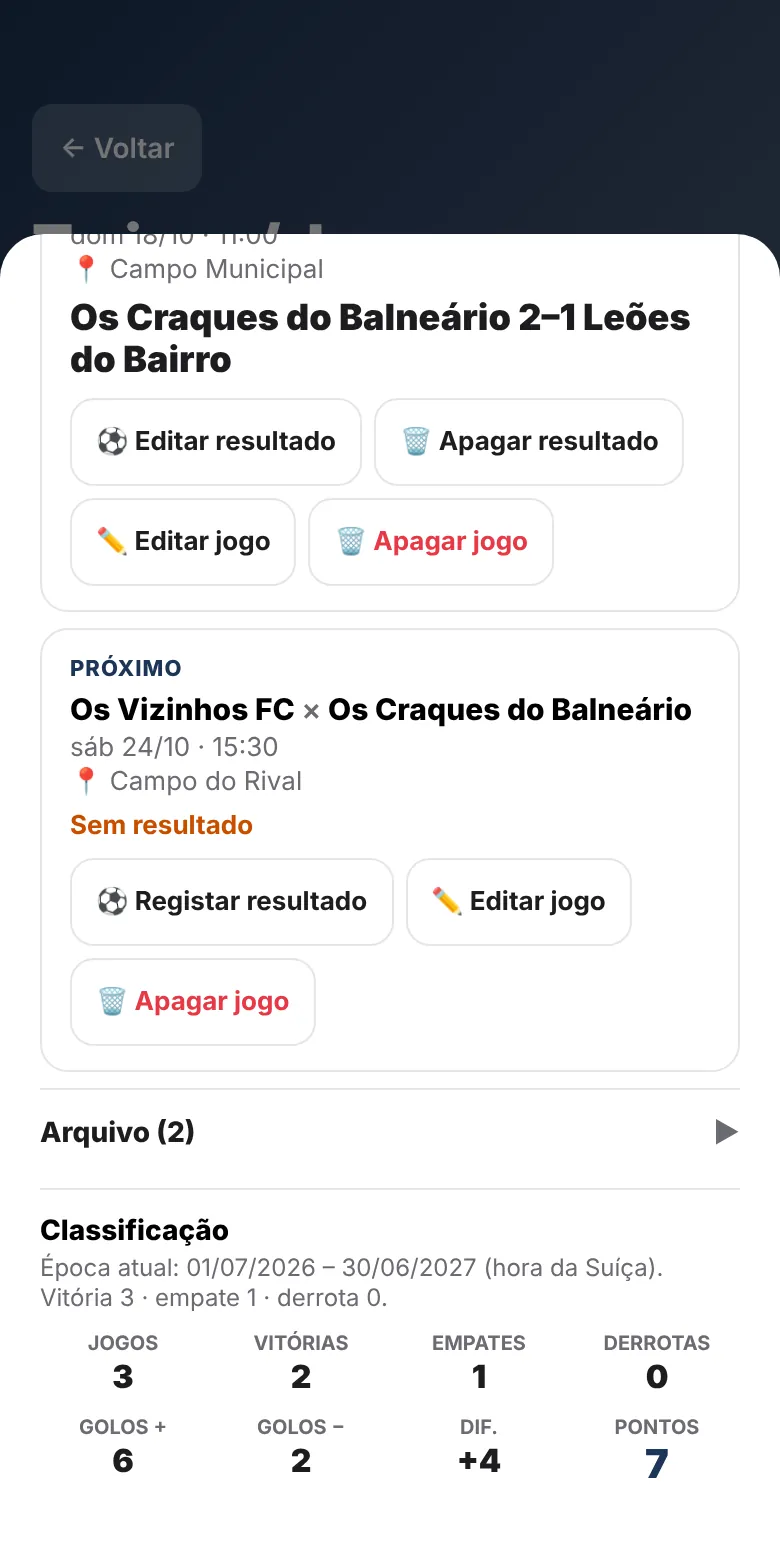
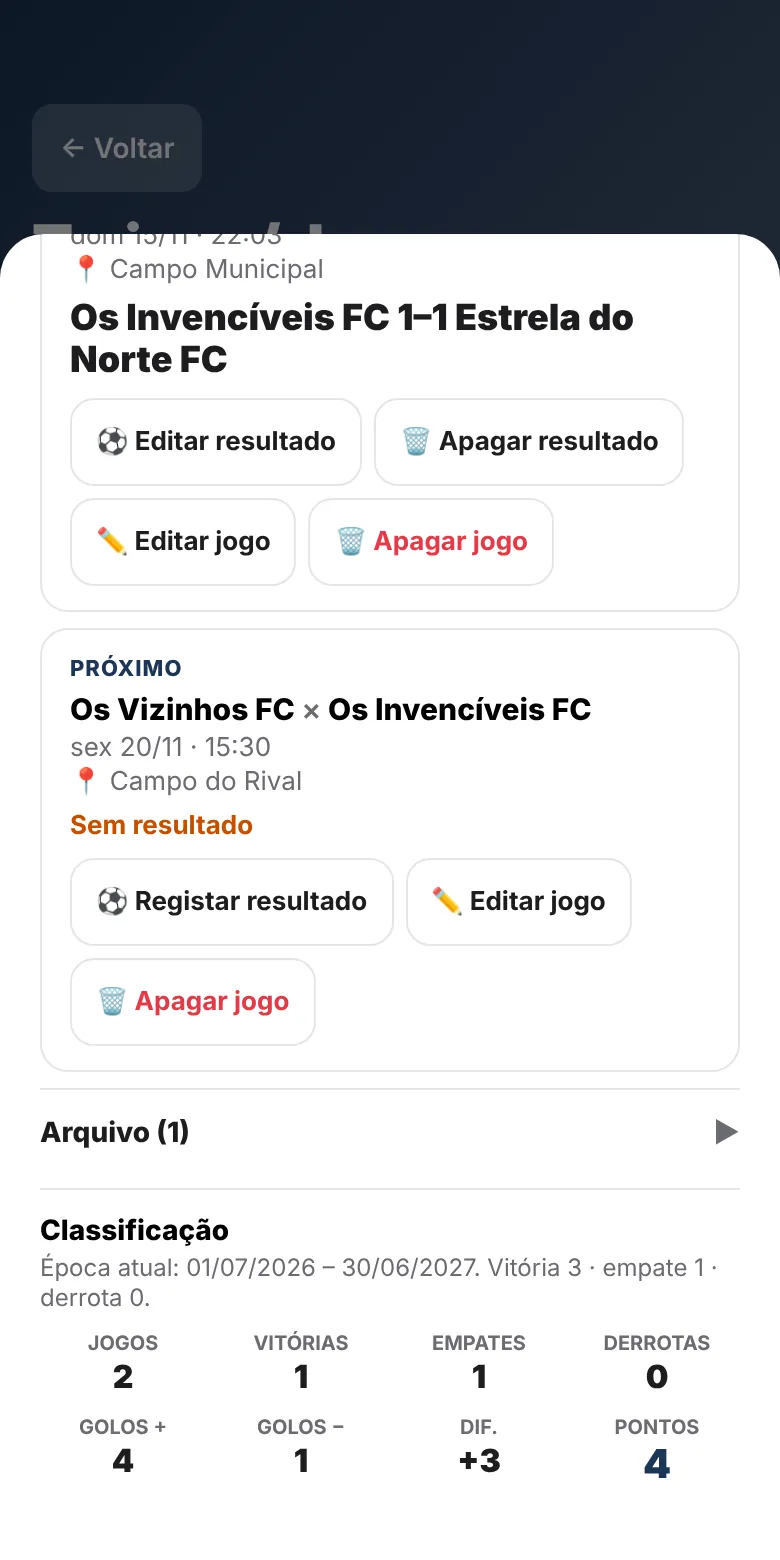
Início "Próximos" com etiqueta Treino/Jogo, textos "treino ou jogo" e época sem "(hora da Suíça)" (build 350) (#117)
* Início: "Próximos" com etiqueta Treino ou Jogo em cada cartão (build 350)

- a secção "Próximos treinos" passa a "Próximos" (mostra também jogos)
- cada cartão tem no canto direito a etiqueta "Treino" (treino único e recorrente) ou "Jogo", com o mesmo componente (TipoTag) da página Treino/Jogo
- TipoTag ganha o tipo "treino" (sem o 🔄); os outros tipos ficam iguais
- bateria passa a 101 testes (dom-inicio-proximos)

Claude-Session: https://claude.ai/code/session_01XW9KKCBSNgpnK8uyFYcZ7o

* Textos "treino ou jogo" e época sem "(hora da Suíça)" (build 350)

- Início: contadores/textos que diziam só "treino" mas também valem para jogos passam a "treino ou jogo" / "treinos e jogos" (mensagem ao entrar na equipa, definições, previsão do tempo, Gerir, ecrã de entrada, contador do apagar equipa); aria-label do ecrã "Vais ao …?" segue o título
- Classificação: "Época atual: 01/07/2026 – 30/06/2027." (sem "(hora da Suíça)"); mesma frase na /sobre/, com a imagem jogos.webp refeita (equipa de exemplo Os Invencíveis FC)
- nenhum cálculo de data, época ou arquivo muda
- bateria passa a 103 testes (unit-textos-treino-jogo, dom-epoca-texto)

Claude-Session: https://claude.ai/code/session_01XW9KKCBSNgpnK8uyFYcZ7o

---------

diff --git a/src/multeam.jsx b/src/multeam.jsx
@@ -2127,7 +2127,7 @@ const JoinTeamModal = ({ teams, user, onFindByCode, onJoin, onClose, initialCode
         <div style={{ textAlign:"center", padding:"20px 0 10px" }}>
           <p style={{ fontSize:52 }}>🎉</p>
           <p style={{ fontWeight:800, fontSize:20, margin:"8px 0 6px" }}>Bem-vindo ao {found.name}!</p>
-          <p style={{ color:T.sub, fontSize:14, margin:"0 0 16px" }}>Já podes ver os treinos, multas e eventos da equipa.</p>
+          <p style={{ color:T.sub, fontSize:14, margin:"0 0 16px" }}>Já podes ver os treinos, jogos, multas e eventos da equipa.</p>
           {!window.matchMedia('(display-mode: standalone)').matches && (
             <div style={{ background:`${T.green}12`, borderRadius:12, padding:"12px 14px", marginBottom:16, textAlign:"left" }}>
               <p style={{ margin:0, fontSize:13, color:T.green, fontWeight:700 }}>📲 Instala a app!</p>
@@ -2359,7 +2359,7 @@ const RsvpGate = ({ ev, team, onAnswer, onLater }) => {
     <button data-rsvp={data} disabled={busy} onClick={onClick} style={{ width:"100%", minHeight:56, padding:"14px", borderRadius:16, border:`2px solid ${color}`, background:bg, color:bg==="transparent"?color:"#fff", fontSize:17, fontWeight:800, cursor:busy?"default":"pointer", fontFamily:"inherit", marginTop:12 }}>{label}</button>
   );
   return (
-    <div role="dialog" aria-modal="true" aria-label="Vais ao treino?" data-rsvp-gate style={{ position:"fixed", inset:0, zIndex:3000, background:T.bg, overflowY:"auto", display:"flex", flexDirection:"column", alignItems:"center", justifyContent:"center", padding:"24px 20px", boxSizing:"border-box", fontFamily:"-apple-system, BlinkMacSystemFont, 'Segoe UI', sans-serif" }}>
+    <div role="dialog" aria-modal="true" aria-label={`Vais ao ${ev.t.type === "jogo" ? "jogo" : "treino"}?`} data-rsvp-gate style={{ position:"fixed", inset:0, zIndex:3000, background:T.bg, overflowY:"auto", display:"flex", flexDirection:"column", alignItems:"center", justifyContent:"center", padding:"24px 20px", boxSizing:"border-box", fontFamily:"-apple-system, BlinkMacSystemFont, 'Segoe UI', sans-serif" }}>
       <div style={{ width:"100%", maxWidth:420 }}>
         <p style={{ margin:"0 0 4px", fontSize:12, fontWeight:700, color:T.sub, textTransform:"uppercase", letterSpacing:0.5 }}>{team.name}</p>
         <h1 style={{ margin:"0 0 14px", fontSize:28, fontWeight:900, lineHeight:1.15 }}>Vais ao {ev.t.type === "jogo" ? "jogo" : "treino"}?</h1>
@@ -2613,29 +2613,31 @@ const HomeTab = ({ appStatus, noticeUserId, team, fines, members, expenses, trai
       })()}
       {(upcoming.length > 0 || recurring.length > 0) && (
         <>
-          <Sec label="Próximos treinos" />
+          <Sec label="Próximos" />
           {recurring.map(t => (
-            <div key={t.id} style={{ background:T.card, borderRadius:14, padding:"13px 14px", marginBottom:8, display:"flex", alignItems:"center", gap:12 }}>
+            <div key={t.id} data-proximo={t.id} data-tipo-evento="recorrente" style={{ background:T.card, borderRadius:14, padding:"13px 14px", marginBottom:8, display:"flex", alignItems:"center", gap:12 }}>
               <div style={{ width:44, height:44, borderRadius:10, background:`${team.color}18`, display:"flex", alignItems:"center", justifyContent:"center", flexShrink:0, fontSize:22 }}>🔄</div>
-              <div style={{ flex:1 }}>
+              <div style={{ flex:1, minWidth:0 }}>
                 <p style={{ margin:0, fontWeight:700, fontSize:15 }}>{(t.days||[]).map(d=>DAYS_PT[d]).join(", ")} · {t.time}</p>
                 {eventDateShort(parseEventDay(nextOccurrence(t.days, t.time))) && <p data-event-date style={{ margin:0, fontSize:13, fontWeight:600, color:T.sub }}>Próximo: {eventDateShort(parseEventDay(nextOccurrence(t.days, t.time)))}</p>}
                 <p style={{ margin:0, fontSize:13, color:T.sub }}>📍 {t.location}{fcText(fc[t.id])}</p>
                 <TacticLine t={t} team={team} />
               </div>
+              <TipoTag tipo="treino" />
             </div>
           ))}
           {upcoming.map(t => (
-            <div key={t.id} style={{ background:T.card, borderRadius:14, padding:"13px 14px", marginBottom:8, display:"flex", alignItems:"center", gap:12 }}>
+            <div key={t.id} data-proximo={t.id} data-tipo-evento={t.type} style={{ background:T.card, borderRadius:14, padding:"13px 14px", marginBottom:8, display:"flex", alignItems:"center", gap:12 }}>
               <div style={{ width:44, height:44, borderRadius:10, background:`${team.color}18`, display:"flex", flexDirection:"column", alignItems:"center", justifyContent:"center", flexShrink:0 }}>
                 <p style={{ margin:0, fontSize:18, fontWeight:900, color:team.color, lineHeight:1 }}>{new Date(t.date+"T00:00:00").getDate()}</p>
                 <p style={{ margin:0, fontSize:10, color:team.color, fontWeight:700 }}>{new Date(t.date+"T00:00:00").toLocaleDateString("pt-PT",{month:"short"}).toUpperCase()}</p>
               </div>
-              <div style={{ flex:1 }}>
-                <p style={{ margin:0, fontWeight:700, fontSize:15 }}>{t.type==="jogo"?`⚽ vs ${t.opponent}`:"🕐"} {t.time}<span data-event-date style={{ fontWeight:600, color:T.sub }}> · {eventDateShort(parseEventDay(t.date))}</span></p>
+              <div style={{ flex:1, minWidth:0 }}>
+                <p style={{ margin:0, fontWeight:700, fontSize:15, overflowWrap:"anywhere" }}>{t.type==="jogo"?`⚽ vs ${t.opponent}`:"🕐"} {t.time}<span data-event-date style={{ fontWeight:600, color:T.sub }}> · {eventDateShort(parseEventDay(t.date))}</span></p>
                 <p style={{ margin:0, fontSize:13, color:T.sub }}>📍 {t.location}{fcText(fc[t.id])}</p>
                 <TacticLine t={t} team={team} />
               </div>
+              <TipoTag tipo={t.type==="jogo"?"jogo":"treino"} />
             </div>
           ))}
         </>
@@ -2833,7 +2835,7 @@ const PresBar = ({ t, presences, myMember, team, members, onSetPresence, isAdmin
 const TipoTag = ({ tipo }) => {
   const jogo = tipo === "jogo";
   return <span data-tipo-tag={jogo ? "jogo" : "treino"} style={{ flexShrink:0, display:"inline-block", whiteSpace:"nowrap", padding:"3px 8px", borderRadius:6, fontSize:11, fontWeight:800, lineHeight:"14px",
-    background:jogo ? "#FEF3C7" : "#DBEAFE", color:jogo ? "#92400E" : "#1E40AF", border:`1px solid ${jogo ? "#F59E0B66" : "#3B82F666"}` }}>{jogo ? "Jogo" : "🔄 Treino"}</span>;
+    background:jogo ? "#FEF3C7" : "#DBEAFE", color:jogo ? "#92400E" : "#1E40AF", border:`1px solid ${jogo ? "#F59E0B66" : "#3B82F666"}` }}>{jogo ? "Jogo" : tipo === "treino" ? "Treino" : "🔄 Treino"}</span>;
 };
 const RESULTADO_PALAVRA = { V:"Vitória", E:"Empate", D:"Derrota" };
 // Resultado no cartão do jogo: placar grande sempre à vista; quem gere regista, edita e apaga aqui mesmo (sem abrir o painel "Jogos").
@@ -3046,7 +3048,7 @@ const JogosPanel = ({ team, trainings, onClose, onEditJogo, onDeleteJogo, onResu
         </>)}
         <div data-jogos-classificacao style={{ borderTop:`1px solid ${T.border}`, marginTop:6, paddingTop:12 }}>
           <p style={{ margin:"0 0 2px", fontSize:14, fontWeight:800 }}>Classificação</p>
-          <p style={{ margin:"0 0 10px", fontSize:12, color:T.sub }}>Época atual: {epTxt} (hora da Suíça). Vitória 3 · empate 1 · derrota 0.</p>
+          <p style={{ margin:"0 0 10px", fontSize:12, color:T.sub }}>Época atual: {epTxt}. Vitória 3 · empate 1 · derrota 0.</p>
           {cl.j === 0
             ? <p data-jogos-sem-resultados style={{ margin:0, fontSize:14, color:T.sub }}>Ainda sem resultados nesta época.</p>
             : <div style={{ display:"grid", gridTemplateColumns:"repeat(4, 1fr)", gap:"10px 6px" }}>
@@ -5024,7 +5026,7 @@ const TeamDataSection = ({ team, onSave }) => {
             <TacticBig tactic={team.tactic} />
           </div>
           <Val label="Nome" v={`${team.emoji||""} ${team.name||""}`.trim()} />
-          <Val label="Obrigar a responder ao treino" v={team.forceRsvp ? "Ligado" : "Desligado"} />
+          <Val label="Obrigar a responder ao treino ou jogo" v={team.forceRsvp ? "Ligado" : "Desligado"} />
           <div style={{ display:"flex", justifyContent:"space-between", alignItems:"center", padding:"6px 0" }}>
             <span style={{ fontSize:13, color:T.sub }}>Cor</span>
             <span style={{ width:20, height:20, borderRadius:10, background:team.color, display:"inline-block" }} />
@@ -5034,7 +5036,7 @@ const TeamDataSection = ({ team, onSave }) => {
           <Val label="Moeda" v={team.currency} />
           <Val label="País" v={team.country} />
           <Val label="Cidade" v={[team.postal, team.city].filter(Boolean).join(" ")} />
-          <p style={{ margin:"4px 0 0", fontSize:12, color:T.sub }}>Cidade e país: usados para a previsão do tempo nos treinos.</p>
+          <p style={{ margin:"4px 0 0", fontSize:12, color:T.sub }}>Cidade e país: usados para a previsão do tempo nos treinos e jogos.</p>
         </>
       ) : (
         <>
@@ -5065,7 +5067,7 @@ const TeamDataSection = ({ team, onSave }) => {
             {sportIssue && <p role="alert" data-sport-error style={{ margin:"-6px 0 10px", fontSize:13, fontWeight:700, color:"#B42318" }}>{sportIssue}</p>}
           </>}
           <TacticField key={sportSel} sport={sportJoin(sportSel, sportOther, team.sport || SPORT_OTHER)} value={f.tactic} onChange={v=>set("tactic",v)} emptyLabel="Por definir" color={f.color} />
-          <FL>Obrigar a responder ao treino</FL>
+          <FL>Obrigar a responder ao treino ou jogo</FL>
           <button role="switch" aria-checked={!!f.force_rsvp} data-rsvp-switch onClick={()=>set("force_rsvp", !f.force_rsvp)} style={{ display:"flex", alignItems:"center", justifyContent:"space-between", gap:12, width:"100%", minHeight:44, padding:"8px 14px", borderRadius:12, border:`2px solid ${f.force_rsvp ? f.color : T.border}`, background:f.force_rsvp ? `${f.color}15` : T.inputBg, color:T.text, fontSize:15, fontWeight:800, cursor:"pointer", fontFamily:"inherit", marginBottom:6 }}>
             <span>{f.force_rsvp ? "Ligado" : "Desligado"}</span>
             <span style={{ fontSize:12, color:T.sub, fontWeight:700 }}>{f.force_rsvp ? "Tocar para desligar" : "Tocar para ligar"}</span>
@@ -5098,7 +5100,7 @@ const TeamDataSection = ({ team, onSave }) => {
               <FI value={f.postal} onChange={e=>set("postal",e.target.value)} placeholder="2545" />
             </div>
           </div>
-          <p style={{ margin:"-8px 0 14px", fontSize:12, color:T.sub }}>Usado para a previsão do tempo nos treinos.</p>
+          <p style={{ margin:"-8px 0 14px", fontSize:12, color:T.sub }}>Usado para a previsão do tempo nos treinos e jogos.</p>
           {(!nameOk || !seasonOk) && <p style={{ margin:"0 0 10px", fontSize:13, fontWeight:600, color:T.brand }}>{!nameOk ? "O nome não pode ficar vazio." : "A época não pode ficar vazia."}</p>}
           {err && <p style={{ margin:"0 0 10px", fontSize:13, fontWeight:600, color:T.brand }}>{err}</p>}
           <div style={{ display:"flex", gap:10 }}>
@@ -5274,7 +5276,7 @@ const DeleteTeamModal = ({ team, token, onDelete, onClose }) => {
     <Sheet title={`Apagar ${team.name}?`} onClose={busy ? ()=>{} : onClose}>
       <div style={{ background:"#FFF5F5", border:"1px solid #FFD0D0", borderRadius:12, padding:"12px 14px", marginBottom:14 }}>
         <p style={{ margin:"0 0 4px", fontSize:13, color:T.sub }}>Perde-se tudo:</p>
-        <p style={{ margin:0, fontSize:15, fontWeight:700, color:T.brand }}>{q(0,"membro","membros")} · {q(1,"multa","multas")} · {q(2,"treino","treinos")} · {q(3,"cartão","cartões")} · {q(4,"despesa","despesas")} · {q(5,"lesão","lesões")} · {q(6,"ausência","ausências")}</p>
+        <p style={{ margin:0, fontSize:15, fontWeight:700, color:T.brand }}>{q(0,"membro","membros")} · {q(1,"multa","multas")} · {q(2,"treino ou jogo","treinos e jogos")} · {q(3,"cartão","cartões")} · {q(4,"despesa","despesas")} · {q(5,"lesão","lesões")} · {q(6,"ausência","ausências")}</p>
       </div>
       {countsFailed && <LoadWarn id="contagens" onRetry={()=>setTick(t=>t+1)}>Não foi possível contar tudo o que se perde (—).</LoadWarn>}
       <p style={{ margin:"0 0 12px", fontSize:14 }}>Isto não tem volta. Escreve o nome da equipa para confirmar.</p>
@@ -5490,7 +5492,7 @@ const ManageTeamScreen = ({ team, members, fineTypes, token, myUserId, onBack, o
           <span style={{ fontSize:20 }}>👑</span>
           <div>
             <p style={{ margin:0, fontWeight:700, fontSize:14 }}>Administradores têm nível máximo</p>
-            <p style={{ margin:"2px 0 0", fontSize:13, color:T.sub }}>Podem gerir membros, atribuir multas, despesas e treinos. {roleWord(team.sport, true)} só veem e confirmam presenças.</p>
+            <p style={{ margin:"2px 0 0", fontSize:13, color:T.sub }}>Podem gerir membros, atribuir multas, despesas, treinos e jogos. {roleWord(team.sport, true)} só veem e confirmam presenças.</p>
           </div>
         </div>
 
@@ -5648,7 +5650,7 @@ const LoginScreen = ({ onLogin }) => {
       <div style={{ marginBottom:44, textAlign:"center" }}>
         <div style={{ width:80, height:80, borderRadius:22, background:T.brand, display:"flex", alignItems:"center", justifyContent:"center", fontSize:38, margin:"0 auto 18px", boxShadow:`0 8px 32px ${T.brand}66` }}>🟥</div>
         <h1 style={{ color:"#fff", fontSize:34, fontWeight:900, margin:0, letterSpacing:-1.5 }}>Multeam</h1>
-        <p style={{ color:"rgba(255,255,255,0.45)", margin:"5px 0 0", fontSize:14, letterSpacing:0.3 }}>Equipas · Multas · Treinos</p>
+        <p style={{ color:"rgba(255,255,255,0.45)", margin:"5px 0 0", fontSize:14, letterSpacing:0.3 }}>Equipas · Multas · Treinos e jogos</p>
       </div>
       <div style={{ width:"100%", maxWidth:340 }}>
         <input style={inp} type="email" value={email} onChange={e=>setEmail(e.target.value)} placeholder="Email" />

diff --git a/docs/app.js b/docs/app.js
@@ -7602,7 +7602,7 @@ var JoinTeamModal = function JoinTeamModal(_ref89) {
       fontSize: 14,
       margin: "0 0 16px"
     }
-  }, "J\xE1 podes ver os treinos, multas e eventos da equipa."), !window.matchMedia('(display-mode: standalone)').matches && React.createElement("div", {
+  }, "J\xE1 podes ver os treinos, jogos, multas e eventos da equipa."), !window.matchMedia('(display-mode: standalone)').matches && React.createElement("div", {
     style: {
       background: "".concat(T.green, "12"),
       borderRadius: 12,
@@ -8444,7 +8444,7 @@ var RsvpGate = function RsvpGate(_ref99) {
   return React.createElement("div", {
     role: "dialog",
     "aria-modal": "true",
-    "aria-label": "Vais ao treino?",
+    "aria-label": "Vais ao ".concat(ev.t.type === "jogo" ? "jogo" : "treino", "?"),
     "data-rsvp-gate": true,
     style: {
       position: "fixed",
@@ -9320,10 +9320,12 @@ var HomeTab = function HomeTab(_ref102) {
       }, m.unpaid > 0 ? money(m.unpaid) : "✓"));
     }));
   }(), (upcoming.length > 0 || recurring.length > 0) && React.createElement(React.Fragment, null, React.createElement(Sec, {
-    label: "Pr\xF3ximos treinos"
+    label: "Pr\xF3ximos"
   }), recurring.map(function (t) {
     return React.createElement("div", {
       key: t.id,
+      "data-proximo": t.id,
+      "data-tipo-evento": "recorrente",
       style: {
         background: T.card,
         borderRadius: 14,
@@ -9347,7 +9349,8 @@ var HomeTab = function HomeTab(_ref102) {
       }
     }, "\uD83D\uDD04"), React.createElement("div", {
       style: {
-        flex: 1
+        flex: 1,
+        minWidth: 0
       }
     }, React.createElement("p", {
       style: {
@@ -9374,10 +9377,14 @@ var HomeTab = function HomeTab(_ref102) {
     }, "\uD83D\uDCCD ", t.location, fcText(fc[t.id])), React.createElement(TacticLine, {
       t: t,
       team: team
-    })));
+    })), React.createElement(TipoTag, {
+      tipo: "treino"
+    }));
   }), upcoming.map(function (t) {
     return React.createElement("div", {
       key: t.id,
+      "data-proximo": t.id,
+      "data-tipo-evento": t.type,
       style: {
         background: T.card,
         borderRadius: 14,
@@ -9418,13 +9425,15 @@ var HomeTab = function HomeTab(_ref102) {
       month: "short"
     }).toUpperCase())), React.createElement("div", {
       style: {
-        flex: 1
+        flex: 1,
+        minWidth: 0
       }
     }, React.createElement("p", {
       style: {
         margin: 0,
         fontWeight: 700,
-        fontSize: 15
+        fontSize: 15,
+        overflowWrap: "anywhere"
       }
     }, t.type === "jogo" ? "\u26BD vs ".concat(t.opponent) : "🕐", " ", t.time, React.createElement("span", {
       "data-event-date": true,
@@ -9441,7 +9450,9 @@ var HomeTab = function HomeTab(_ref102) {
     }, "\uD83D\uDCCD ", t.location, fcText(fc[t.id])), React.createElement(TacticLine, {
       t: t,
       team: team
-    })));
+    })), React.createElement(TipoTag, {
+      tipo: t.type === "jogo" ? "jogo" : "treino"
+    }));
   })), React.createElement(Sec, {
     label: "Multas recentes"
   }), recent.length === 0 && React.createElement("p", {
@@ -10107,7 +10118,7 @@ var TipoTag = function TipoTag(_ref112) {
       color: jogo ? "#92400E" : "#1E40AF",
       border: "1px solid ".concat(jogo ? "#F59E0B66" : "#3B82F666")
     }
-  }, jogo ? "Jogo" : "🔄 Treino");
+  }, jogo ? "Jogo" : tipo === "treino" ? "Treino" : "🔄 Treino");
 };
 var RESULTADO_PALAVRA = {
   V: "Vitória",
@@ -11084,7 +11095,7 @@ var JogosPanel = function JogosPanel(_ref122) {
       fontSize: 12,
       color: T.sub
     }
-  }, "\xC9poca atual: ", epTxt, " (hora da Su\xED\xE7a). Vit\xF3ria 3 \xB7 empate 1 \xB7 derrota 0."), cl.j === 0 ? React.createElement("p", {
+  }, "\xC9poca atual: ", epTxt, ". Vit\xF3ria 3 \xB7 empate 1 \xB7 derrota 0."), cl.j === 0 ? React.createElement("p", {
     "data-jogos-sem-resultados": true,
     style: {
       margin: 0,
@@ -19007,7 +19018,7 @@ var TeamDataSection = function TeamDataSection(_ref213) {
     label: "Nome",
     v: "".concat(team.emoji || "", " ").concat(team.name || "").trim()
   }), React.createElement(Val, {
-    label: "Obrigar a responder ao treino",
+    label: "Obrigar a responder ao treino ou jogo",
     v: team.forceRsvp ? "Ligado" : "Desligado"
   }), React.createElement("div", {
     style: {
@@ -19050,7 +19061,7 @@ var TeamDataSection = function TeamDataSection(_ref213) {
       fontSize: 12,
       color: T.sub
     }
-  }, "Cidade e pa\xEDs: usados para a previs\xE3o do tempo nos treinos.")) : React.createElement(React.Fragment, null, React.createElement(FL, null, "Nome"), React.createElement(FI, {
+  }, "Cidade e pa\xEDs: usados para a previs\xE3o do tempo nos treinos e jogos.")) : React.createElement(React.Fragment, null, React.createElement(FL, null, "Nome"), React.createElement(FI, {
     value: f.name,
     onChange: function onChange(e) {
       set("name", e.target.value);
@@ -19152,7 +19163,7 @@ var TeamDataSection = function TeamDataSection(_ref213) {
     },
     emptyLabel: "Por definir",
     color: f.color
-  }), React.createElement(FL, null, "Obrigar a responder ao treino"), React.createElement("button", {
+  }), React.createElement(FL, null, "Obrigar a responder ao treino ou jogo"), React.createElement("button", {
     role: "switch",
     "aria-checked": !!f.force_rsvp,
     "data-rsvp-switch": true,
@@ -19307,7 +19318,7 @@ var TeamDataSection = function TeamDataSection(_ref213) {
       fontSize: 12,
       color: T.sub
     }
-  }, "Usado para a previs\xE3o do tempo nos treinos."), (!nameOk || !seasonOk) && React.createElement("p", {
+  }, "Usado para a previs\xE3o do tempo nos treinos e jogos."), (!nameOk || !seasonOk) && React.createElement("p", {
     style: {
       margin: "0 0 10px",
       fontSize: 13,
@@ -19996,7 +20007,7 @@ var DeleteTeamModal = function DeleteTeamModal(_ref226) {
       fontWeight: 700,
       color: T.brand
     }
-  }, q(0, "membro", "membros"), " \xB7 ", q(1, "multa", "multas"), " \xB7 ", q(2, "treino", "treinos"), " \xB7 ", q(3, "cartão", "cartões"), " \xB7 ", q(4, "despesa", "despesas"), " \xB7 ", q(5, "lesão", "lesões"), " \xB7 ", q(6, "ausência", "ausências"))), countsFailed && React.createElement(LoadWarn, {
+  }, q(0, "membro", "membros"), " \xB7 ", q(1, "multa", "multas"), " \xB7 ", q(2, "treino ou jogo", "treinos e jogos"), " \xB7 ", q(3, "cartão", "cartões"), " \xB7 ", q(4, "despesa", "despesas"), " \xB7 ", q(5, "lesão", "lesões"), " \xB7 ", q(6, "ausência", "ausências"))), countsFailed && React.createElement(LoadWarn, {
     id: "contagens",
     onRetry: function onRetry() {
       return setTick(function (t) {
@@ -20776,7 +20787,7 @@ var ManageTeamScreen = function ManageTeamScreen(_ref231) {
       fontSize: 13,
       color: T.sub
     }
-  }, "Podem gerir membros, atribuir multas, despesas e treinos. ", roleWord(team.sport, true), " s\xF3 veem e confirmam presen\xE7as."))), React.createElement("button", {
+  }, "Podem gerir membros, atribuir multas, despesas, treinos e jogos. ", roleWord(team.sport, true), " s\xF3 veem e confirmam presen\xE7as."))), React.createElement("button", {
     onClick: onAddMember,
     style: {
       width: "100%",
@@ -21403,7 +21414,7 @@ var LoginScreen = function LoginScreen(_ref240) {
       fontSize: 14,
       letterSpacing: 0.3
     }
-  }, "Equipas \xB7 Multas \xB7 Treinos")), React.createElement("div", {
+  }, "Equipas \xB7 Multas \xB7 Treinos e jogos")), React.createElement("div", {
     style: {
       width: "100%",
       maxWidth: 340

diff --git a/docs/sobre/index.html b/docs/sobre/index.html
@@ -226,7 +226,7 @@
               <ul>
                 <li>Resultado em grande no cartão do jogo, com os pontos: vitória 3, empate 1, derrota 0</li>
                 <li>Quem gere a equipa edita e apaga o resultado no próprio cartão</li>
-                <li>Classificação com vitórias, empates, derrotas e pontos, por época (de 1 de julho a 30 de junho, hora da Suíça)</li>
+                <li>Classificação com vitórias, empates, derrotas e pontos, por época (de 1 de julho a 30 de junho)</li>
                 <li>O jogo passa sozinho para o arquivo 2 horas depois do início</li>
                 <li>Convocatória com o nome e a sigla da posição de cada jogador (por exemplo GR, DC, MC), ao criar e ao editar o jogo</li>
               </ul>

diff --git a/docs/sw.js b/docs/sw.js
@@ -1,7 +1,7 @@
 // Multeam Service Worker
 // A app (index.html, app.js e React): rede primeiro, com limite de 4 s; a cópia guardada só serve quando a rede falha
 // (sem ligação, site em baixo, erro 404/5xx) ou demora mais do que o limite. O resto: cache primeiro, como antes.
-const CACHE = 'multeam-v349';
+const CACHE = 'multeam-v350';
 // Impressão (sha256, 8 caracteres) do manifest.json: o build.js atualiza-a. Assim o sw.js muda sempre que o manifest muda e o browser instala o service worker novo
 const MANIFEST_HASH = '19350bc2';
 const BUILD = CACHE.split('-v')[1];

diff --git a/docs/index.html b/docs/index.html
@@ -39,7 +39,7 @@
   <script src="https://unpkg.com/react-dom@18/umd/react-dom.production.min.js" crossorigin></script>
 
   <!-- App bundle -->
-  <script src="app.js?v=349"></script>
+  <script src="app.js?v=350"></script>
 
   <!-- Hide splash after app loads -->
   <script>

diff --git a/verificador/README.md b/verificador/README.md
@@ -2,7 +2,7 @@
 
 Ficheiros do verificador (sem dados pessoais nem segredos). Os testes em si (`pw/`, `r/`) não estão neste repositório.
 
-- `full.sh`: a bateria completa (100 testes: `dom-*` e `unit-*`, auditorias de consola e de UI, `t8 t11 t13 t15 t17 t19`). `PW=<pasta pw> bash verificador/full.sh > bateria.txt 2>&1`
+- `full.sh`: a bateria completa (103 testes: `dom-*` e `unit-*`, auditorias de consola e de UI, `t8 t11 t13 t15 t17 t19`). `PW=<pasta pw> bash verificador/full.sh > bateria.txt 2>&1`
 - `resumo.py`: lê a bateria e diz se está toda verde (lista de testes esperados lida do `full.sh`; falha se faltar algum, se algum tiver falhas ou se `TUDO-FIM` não aparecer). `python3 verificador/resumo.py bateria.txt verificador/full.sh`
 - `tfinal.sh`: linha final de cada `t*`. A linha `[erro original] …` só é ignorada no `t13` e só se o mesmo registo tiver a linha exata `OK 3`; em qualquer outro teste, ou sem `OK 3`, conta como falha.
 - `teste-verificador.py`: testes do próprio verificador (um caso que ignora e vários que falham). `python3 verificador/teste-verificador.py`
